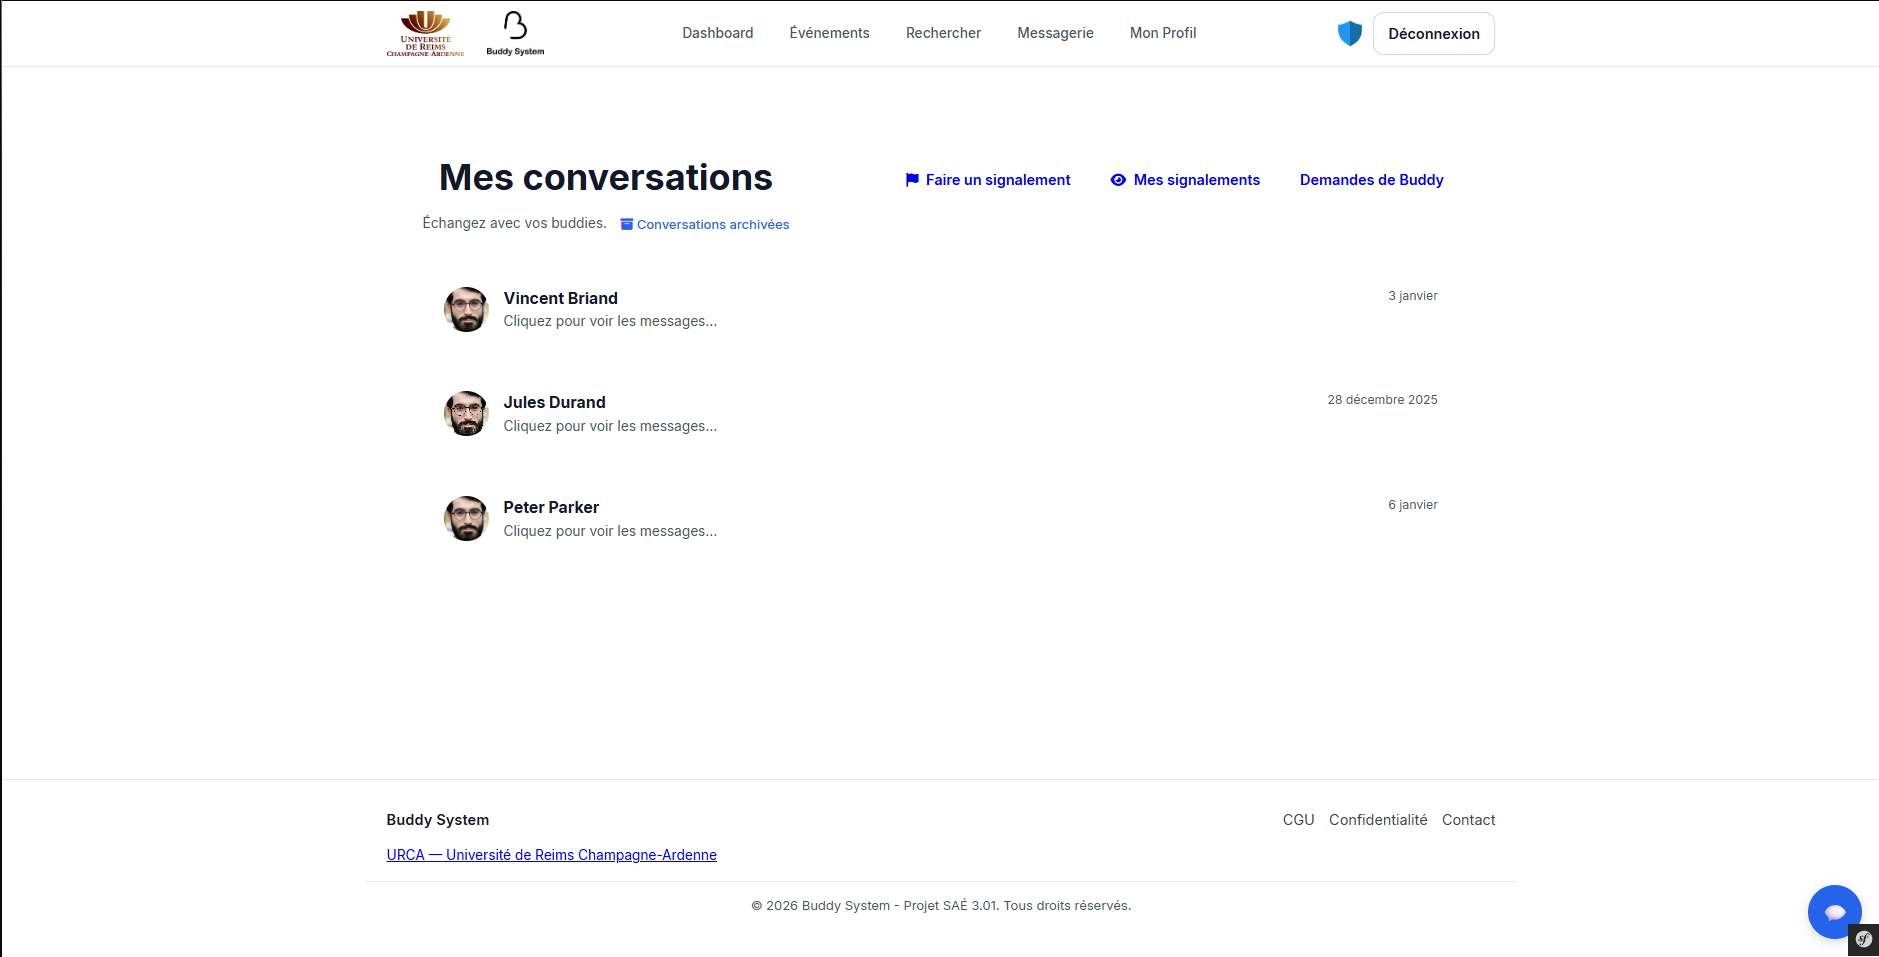
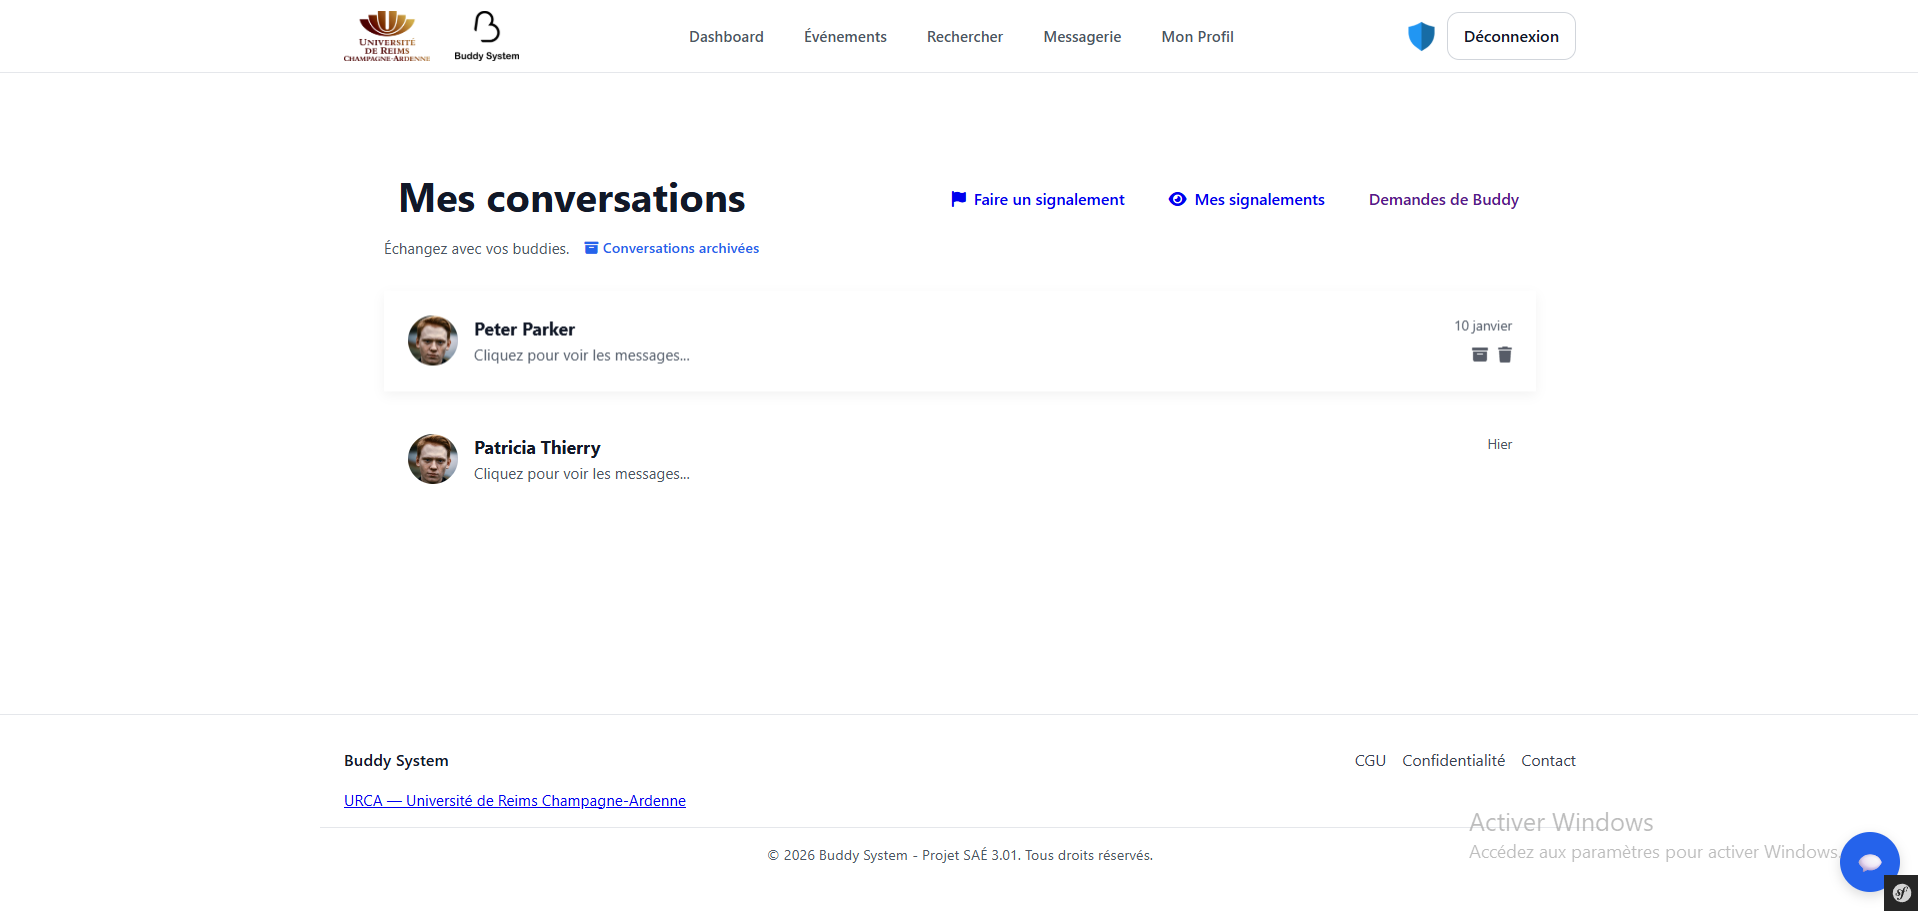
Doc: amélioration complète du README + ajout screenshots chatbot2 et messagerie

diff --git a/README.md b/README.md
@@ -4,20 +4,21 @@
 
 Buddy System est une application web permettant de faciliter l'intégration des étudiants internationaux à l'Université de Reims Champagne-Ardenne. L'application permet aux étudiants locaux de se mettre en relation avec des étudiants internationaux via un système de parrainage, d'événements et de messagerie.
 
-## 🗂 Table of Contents
+## 📂 Sommaire
 
-- [Contributors](#-contributors)
-- [Project Context](#-project-context)
-- [Features](#-features)
-- [Requirements](#-requirements)
+- [Contributeurs](#-contributeurs)
+- [Contexte du Projet](#-contexte-du-projet)
+- [Fonctionnalités](#-fonctionnalités)
+- [Prérequis](#-prérequis)
 - [Technologies](#-technologies)
-- [Testing the application](#-testing-the-application)
+- [Tests de l'application](#-tests-de-lapplication)
 - [Installation / Configuration](#-installation--configuration)
-- [Composer scripts](#-composer-scripts)
-- [Project Architecture](#-project-architecture)
-- [Screenshots](#-screenshots)
+- [Scripts Composer](#-scripts-composer)
+- [Architecture du Projet](#-architecture-du-projet)
+- [Captures d'écran](#-captures-décran)
+- [Licence & Droits](#-licence--droits)
 
-## 👥 Contributors
+## 👥 Contributeurs
 
 - **Ayoub SEGHIR**     (segh0010)
 - **Yacine MOUNSI**    (moun0023)
@@ -25,14 +26,14 @@ Buddy System est une application web permettant de faciliter l'intégration des 
 - **Sacha DEUTSCHE**   (deut0005)
 - **Iyed BOUZENADA**   (bouz0078)
 
-## 📌 Project Context
+## 📌 Contexte du Projet
 
 - Ce projet a été réalisé dans le cadre d'une SAÉ (Situation d'Apprentissage et d'Évaluation) du BUT Informatique.
 - Durée : Octobre 2025 - Janvier 2026
 - Objectif principal : Développer une application web en utilisant le framework Symfony.
 - Enseignants : M. Desjardin, Mme Zahia Guessoum
 
-## ✨ Features
+## ✨ Fonctionnalités
 
 - Consulter la liste des événements (Sport, Culture, Loisirs).
 - S'inscrire ou se désinscrire aux événements.
@@ -49,7 +50,7 @@ Buddy System est une application web permettant de faciliter l'intégration des 
 - Gérer les utilisateurs, événements et signalements (CRUD).
 - Dashboard avec statistiques (nombre d'utilisateurs, événements populaires, etc.).
 
-## ⚙ Requirements
+## ⚙ Prérequis
 
 - **PHP** >= 8.2
 - **Symfony CLI**
@@ -63,7 +64,7 @@ Buddy System est une application web permettant de faciliter l'intégration des 
 - Database: **MySQL**
 - Tests: **Codeception**
 
-## 🛠 Testing the application
+## 🛠 Tests de l'application
 
 Vous pouvez tester l'application en local en suivant les instructions d'installation ci-dessous.
 
@@ -76,18 +77,33 @@ Dans le contexte de développement, voici quelques utilisateurs que vous pouvez 
 
 Les fixtures génèrent automatiquement :
 
-- **+183 utilisateurs** (profils complets avec bio, langues, centres d'intérêt)
-- **+34 événements** (Sport, Culture, Loisirs avec dates variées)
-- **+50 conversations** entre utilisateurs  
-- **+200 messages** répartis dans les conversations
-- **+32 signalements** de messages et utilisateurs
+- **+100 utilisateurs** (profils complets avec bio, langues, centres d'intérêt)
+- **+30 événements** (Sport, Culture, Loisirs avec dates variées)
+- **+15 conversations** entre utilisateurs
+- **+80 messages** répartis dans les conversations
+- **+30 signalements** de messages et utilisateurs
+- **+25 demandes de relations** (entre deux utilisateurs)
 
 ### Procédures de test suggérées
 
-1. **Authentification** : Se connecter avec `user@example.com` / `test`
-2. **Inscription événement** : Aller sur `/evenements`, s'inscrire à un événement ouvert
-3. **Messagerie** : Rechercher un buddy (`/buddy`), lui envoyer un message
-4. **Administration** : Se connecter avec `root@example.com` / `test`, accéder à `/admin`
+Voici les parcours clés pour tester les fonctionnalités principales :
+
+1.  **Authentification**
+    * **Utilisateur :** `user@example.com` / `test`
+    * **Admin :** `root@example.com` / `test`
+
+2.  **Cycle de vie d'un Événement**
+    * Connectez-vous en tant qu'**Utilisateur** et proposez un événement (il passera en statut "En attente").
+    * Connectez-vous en tant qu'**Admin**, allez dans la page **Evenements** puis **Voir les demandes en attente** et vous pourrez alors gérer le statut des événements en attente comme vous le souhaitez.
+    * L'événement est désormais visible et ouvert aux inscriptions.
+
+3.  **Messagerie & Social**
+    * Recherchez un buddy et envoyez une demande.
+    * Échangez des messages (observez le compteur de notifications en haut).
+    * Testez l'**archivage** d'une conversation pour vérifier le mode "lecture seule".
+
+4.  **Administration**
+    * Accédez à `/admin` pour gérer les utilisateurs, les signalements et modérer les contenus.
 
 ## 🚀 Installation / Configuration
 
@@ -126,7 +142,7 @@ DATABASE_URL="mysql://USER:PASSWORD@127.0.0.1:3306/buddy_system?serverVersion=ma
 
 **Remplacez `USER` et `PASSWORD` par vos identifiants MySQL.**
 
-> 💡 **Note** : La base de données sera créée automatiquement lors de l'exécution du script `composer db`.
+💡 **Note** : La base de données sera créée automatiquement lors de l'exécution du script `composer db`.
 
 ### Créer et initialiser la base de données
 
@@ -144,7 +160,7 @@ Cette commande va :
 
 *Veuillez avoir une bonne connexion internet pour que la commande fonctionne correctement*
 
-> ⚠ **Attention** : Cette commande supprime toutes les données existantes !
+⚠ **Attention** : Cette commande supprime toutes les données existantes !
 
 
 
@@ -156,7 +172,7 @@ Exécutez la commande suivante :
 composer start
 ```
 
-## 📝 Composer scripts
+## 📝 Scripts Composer
 
 Pour exécuter un script composer, utilisez la commande suivante :
 
@@ -175,7 +191,7 @@ Voici les scripts disponibles :
 - `"test:codeception"` : Lance tous les tests Codeception
 - `"test"` : Exécute tous les scripts de test (Twig, PHP, Codeception)
 
-## 🏗 Project Architecture
+## 🏗 Architecture du Projet
 
 ### 📁 Structure Principale
 
@@ -209,8 +225,10 @@ Voici les scripts disponibles :
 - **Signalement** : Représente un signalement de message ou d'utilisateur.
 - **Relation** : Représente une relation buddy (parrainage).
 - **Role** : Représente un rôle utilisateur (ROLE_USER, ROLE_ADMIN).
+- **Organisation** : Représente le lien entre un utilisateur organisateur et un événement.
+- **Possession** : Représente l'attribution d'un rôle spécifique à un utilisateur.
 
-## 📸 Screenshots
+## 📸 Captures d'écran
 
 ### Page d'Accueil
 
@@ -218,7 +236,7 @@ Voici les scripts disponibles :
 
 La page d'accueil présente Buddy System avec un design moderne et épuré :
 - **Hero section** : Slogan "Trouvez votre binôme idéal à l'URCA"
-- **Call-to-action** : Boutons "Explorez gratuitement" et "Découvrez les événements"
+- **Call-to-action** : Boutons "S'inscrire gratuitement" et "Découvrir les événements"
 - **Navigation** : Accès aux principales sections (Accueil, Événements, Rechercher)
 - **Section "Comment ça marche ?"** : Explication en 3 étapes du processus
 - **Prochains événements** : Aperçu des événements à venir
@@ -239,7 +257,7 @@ La page d'accueil présente Buddy System avec un design moderne et épuré :
 **Formulaire d'inscription** complet :
 - Informations personnelles (Prénom, Nom, Email, Âge)
 - Mot de passe avec confirmation
-- **Type de compte** : Local ou International
+- **Type d'étudiant** : Local ou International
 - Acceptation des CGU (CGU accessibles depuis le footer)
 
 ---
@@ -250,9 +268,9 @@ La page d'accueil présente Buddy System avec un design moderne et épuré :
 
 **Dashboard personnel** avec 4 raccourcis principaux :
 - **Mon Profil** : Gérer ses informations
-- **Recherche** : Trouver un buddy
+- **Mes Buddies** : Accès rapide à toutes nos relations Buddy
 - **Messagerie** : Conversations actives
-- **Mes Événements** : Inscriptions aux événements
+- **Mes Événements** : Accès rapide aux événement dans lesquels nous sommes inscrits
 
 Un bouton "Supprimer mon compte" est disponible pour la suppression du compte.
 
@@ -267,18 +285,11 @@ Un bouton "Supprimer mon compte" est disponible pour la suppression du compte.
 ![Liste des événements (vue utilisateur)](screenshots/events_list.png)
 
 **Page de découverte des événements** avec :
-- Bouton **"Créer un événement"** pour les utilisateurs connectés
+- Bouton **"Faire une demande de création"** pour les utilisateurs connectés
 - **Filtres** par catégorie et statut
 - **Barre de recherche** pour trouver rapidement un événement
 - **Cartes événements** affichant : titre, catégorie, date, lieu, places disponibles
-- **États visuels** : Ouvert (vert), Fermé (rouge), Date dépassée
-
-![Liste des événements (vue admin)](screenshots/events_list_admin.png)
-
-**Vue administrative des événements** avec :
-- **Boutons d'action** : "Créer un événement" et "Voir les demandes en attente"
-- **Filtres avancés** par catégorie et statut
-- Même système de cartes avec états visuels clairs
+- **États visuels** : Ouvert (vert), Fermé(Complet/Expiré) (rouge)
 
 ![Création d'événement](screenshots/creation_event.png)
 
@@ -296,19 +307,26 @@ Un bouton "Supprimer mon compte" est disponible pour la suppression du compte.
 - **Bouton d'inscription/désinscription**
 - **Liste des participants** (liens cliquables vers profils)
 
-![Modification d'événement (admin)](screenshots/admin_event_edit.png)
+![Liste des événements (vue admin)](screenshots/events_list_admin.png)
 
-**Interface EasyAdmin** pour modifier un événement :
-- Formulaire complet en mode sombre
-- Tous les champs éditables (titre, description, lieu, dates, capacité, statut)
-- Sélection du statut avec dropdown
+**Vue administrative des événements** avec :
+- **Boutons d'action** : "Créer un événement" et "Voir les demandes en attente"
+- **Filtres avancés** par catégorie et statut
+- Même système de cartes avec états visuels clairs
+- Le bouton "Voir les demandes en attente" redirige directement automatiquement vers la page suivante.
 
 ![Gestion des demandes en attente (admin)](screenshots/admin_event_attente.png)
 
 **Panel admin** pour gérer les événements en attente de validation :
-- Tableau avec ID, Titre, Lieu, Dates, Capacité et Statut
-- Filtrage par statut "EN_ATTENTE" (jaune)
+- Tableau avec ID, Titre, Lieu, Dates, Capacité et **surtout** Statut
+- Filtrage par statut "EN_ATTENTE" (automatique en cliquant sur le lien de la page précèdente "Voir les demandes en attente")
 - Actions : Éditer, Supprimer
+
+![Modification d'événement (admin)](screenshots/admin_event_edit.png)
+
+**Interface EasyAdmin** pour publier et modifier un événement :
+- Pour publier, modifier le statut : **EN_ATTENTE** --> **OUVERT**
+- Tous les champs éditables (titre, description, lieu, dates, capacité, statut)
 
 ---
 
@@ -317,7 +335,7 @@ Un bouton "Supprimer mon compte" est disponible pour la suppression du compte.
 ![Mon profil](screenshots/my_profil.png)
 
 **Page profil personnel** affichant :
-- Photo de profil (avatar)
+- Photo de profil (avatar BLOB)
 - Informations (nom, prénom, âge)
 - Biographie personnelle
 - Langues parlées
@@ -336,8 +354,8 @@ Un bouton "Supprimer mon compte" est disponible pour la suppression du compte.
 
 **Consultation d'un profil public** avec :
 - Informations visibles publiquement
-- Bouton **"Envoyer un message"** 
-- Bouton **"Signaler"**
+- Bouton **"Envoyer un message"**
+- Bouton **"Demander en Buddy"**
 
 
 ---
@@ -358,9 +376,10 @@ Un bouton "Supprimer mon compte" est disponible pour la suppression du compte.
 ![Liste des conversations](screenshots/messagerie.png)
 
 **Vue d'ensemble** des conversations :
-- Photo et nom du contact
+- Photo et nom/prénom du contact
 - Date du dernier message
-- Badge pour messages non lus
+- Possibilité de supprimer/archiver une conversation
+- Accéder a ses conversations archivées
 
 ![Conversation](screenshots/messagerie2.png)
 
@@ -368,7 +387,9 @@ Un bouton "Supprimer mon compte" est disponible pour la suppression du compte.
 - Historique des messages
 - Messages alignés (gauche = reçus, droite = envoyés)
 - Formulaire d'envoi
-- Bouton "Signaler"
+- Bouton "Signaler" pour les messages reçus
+- Bouton "Supprimer" pour les messages envoyés
+- icône check + "Envoyé" **ou** icone double-check + "Vu" selon l'état du message
 
 ---
 
@@ -381,13 +402,13 @@ Un bouton "Supprimer mon compte" est disponible pour la suppression du compte.
 - Événements problématiques
 - Utilisateurs à comportement inapproprié
 
-Champs : Raison (menu déroulant) + Description détaillée
+Champs : Motif (plusieurs choix proposés) + Description détaillée
 
 ---
 
 ### Chatbot
 
-![Chatbot](screenshots/chatbot.png)
+![Chatbot](screenshots/chatbot.png) | ![Chatbot2](screenshots/chatbot2.png)
 
 **Assistant virtuel** accessible via le bouton bleu en bas à droite pour aider à la navigation.
 
@@ -426,3 +447,12 @@ Application entièrement **responsive** (mobile-first) :
 - Cartes empilées verticalement
 - Formulaires adaptés
 - Expérience fluide sur tous écrans
+
+## 📝 Licence & Droits
+
+Ce projet a été développé dans un cadre universitaire pour l'**IUT de Reims**.
+Tous droits réservés aux auteurs.
+
+---
+
+# FIN
